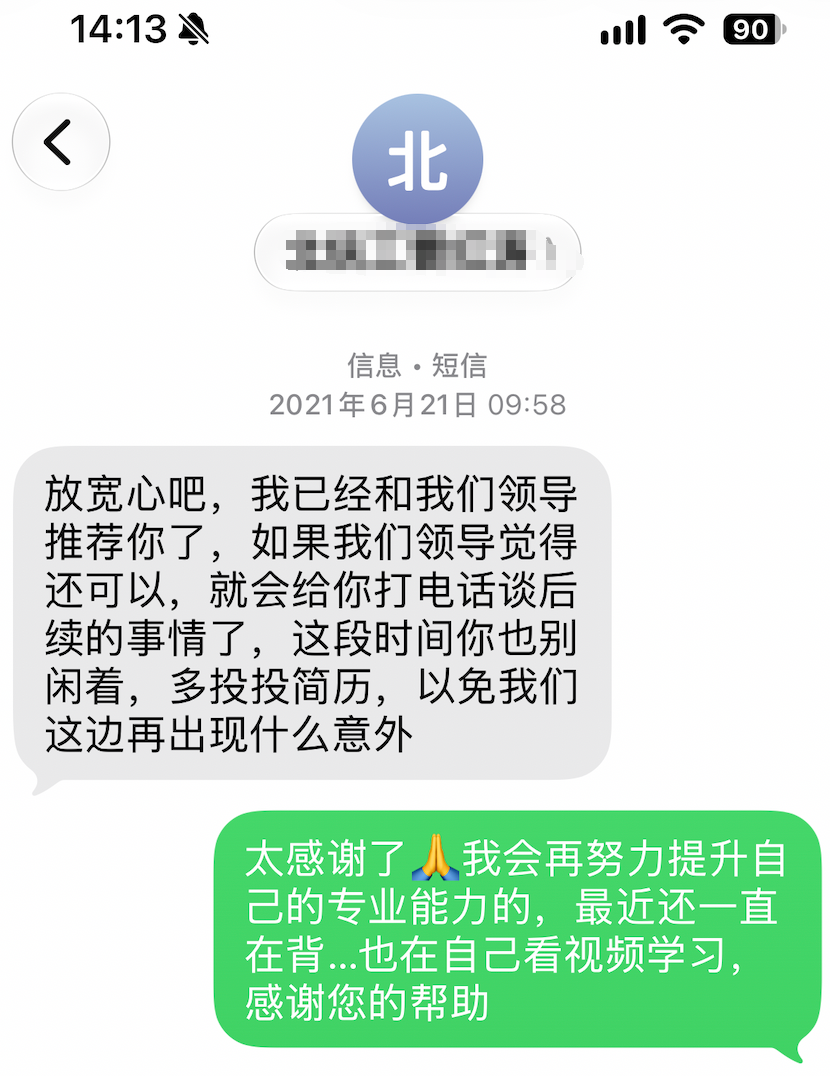
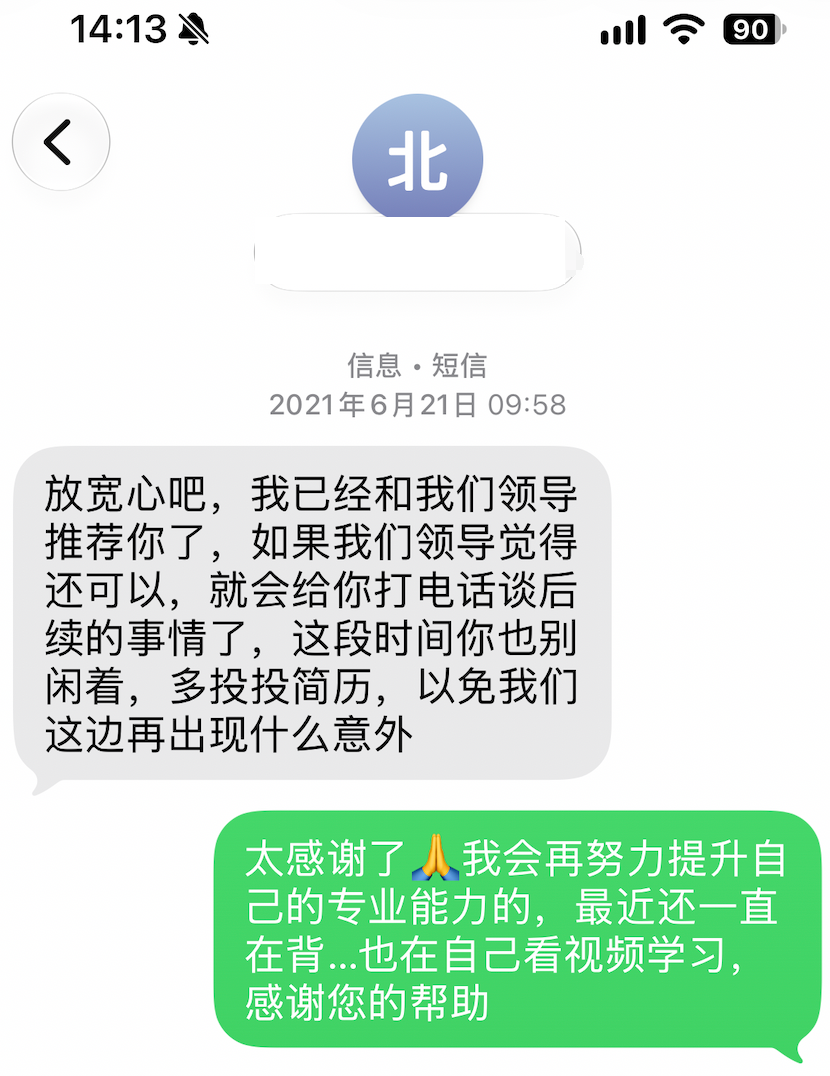
补充离职日内容

Changed region(s): [[0.3313, 0.184, 0.6928, 0.276]]

diff --git a/src/content/blog/2025-10-14-离职日.md b/src/content/blog/2025-10-14-离职日.md
@@ -46,4 +46,10 @@ tags:
 
 回看这五年，并不后悔什么，每一步都算数，也能看见自己在进步，不管是技术还是工作能力，也确实很谢谢这一路上支持我的人，帮助栽培我的人，祝好。
 
-* 流水账来了，早晨骑车都是绿灯，没迟到打卡，在店里吃了早餐，居然在最后一次光顾的时刻，在包子里第一次吃到了塑料纸，然后就是忙碌的上午，真得上站好最后一班岗了。中午在选择吃猪肘饭还是糁汤还是面的时候犹豫了，最终决定吃面，确实好吃，现在已经是下午三点了，晚上本来喊老婆吃寿司郎，她扬言说减肥不去，那我也不去健身了今天，休息休息，明天后天休息两天，算是给自己放个小假，下周上班了！！！
+* 流水账来了，早晨骑车都是绿灯，没迟到打卡，在店里吃了早餐，居然在最后一次光顾的时刻，在包子里第一次吃到了塑料纸，然后就是忙碌的上午，真得是站好最后一班岗了。中午在选择吃猪肘饭还是糁汤还是面的时候犹豫了，最终决定吃面，确实好吃，现在已经是下午三点了，晚上本来喊老婆吃寿司郎，她扬言说减肥不去，那我也不去健身了今天，休息休息，明天后天休息两天，算是给自己放个小假，下周上班了！！！
+--- 
+* 最终老婆还是陪我去吃了哈哈哈哈哈，附图：
+![img.png](img.png)
+---
+
+*最后更新于：2026-11-02*
